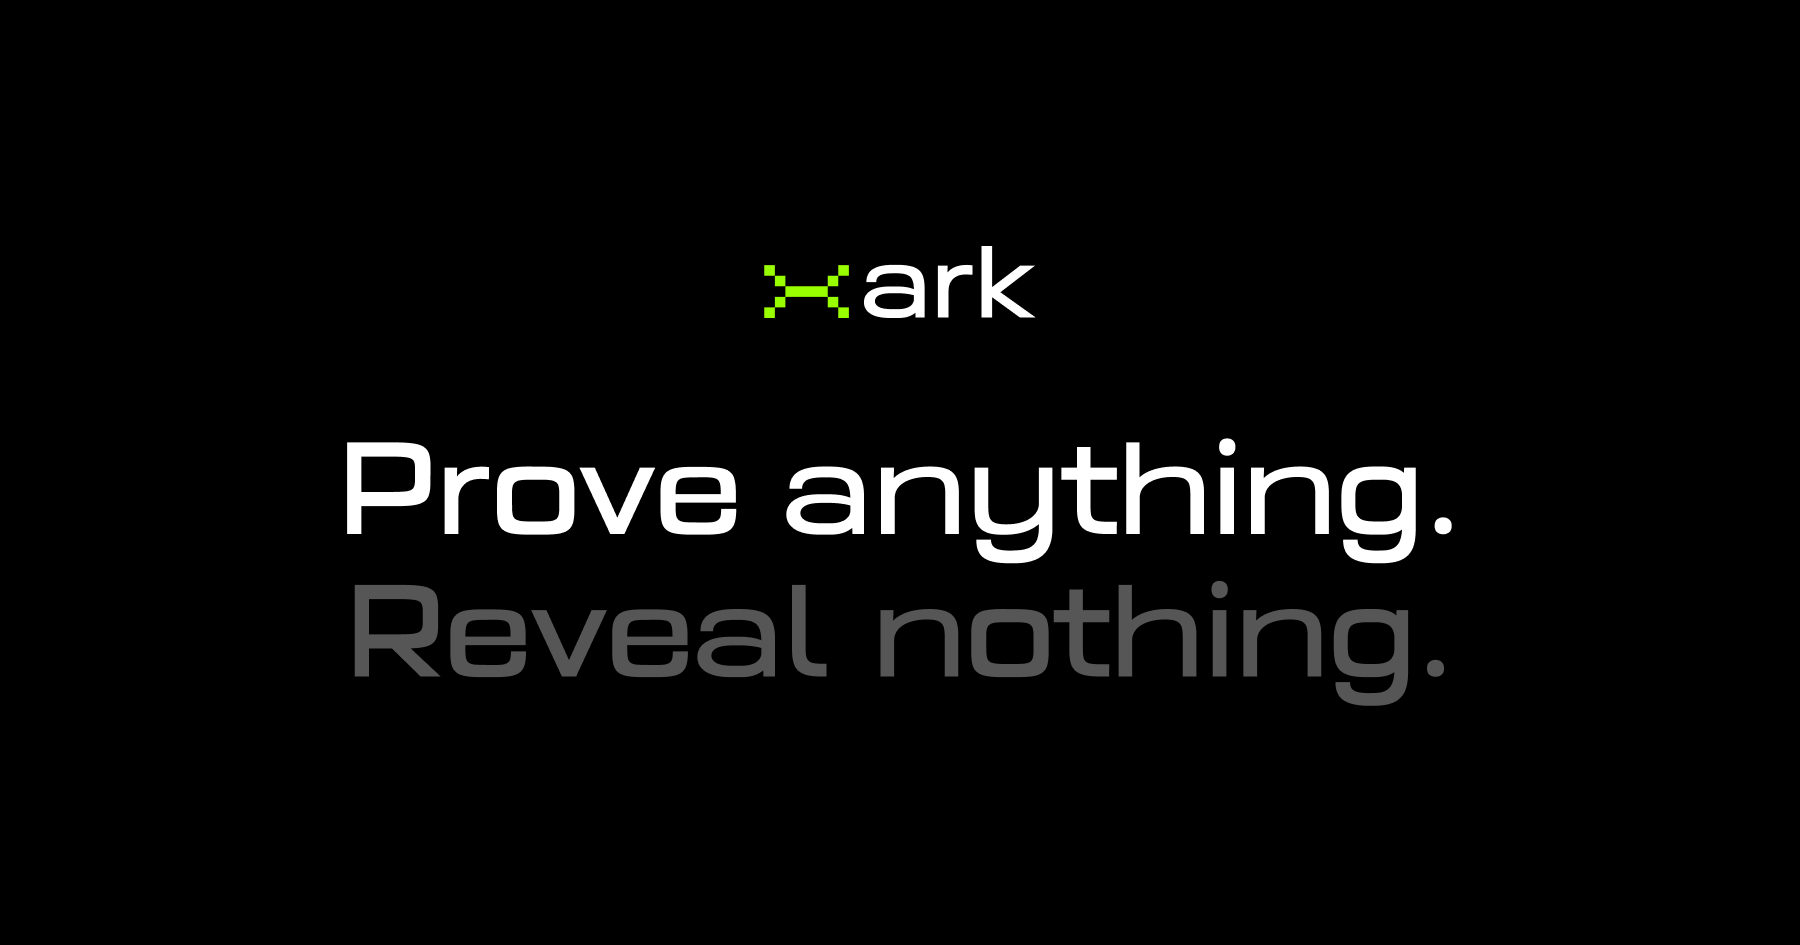
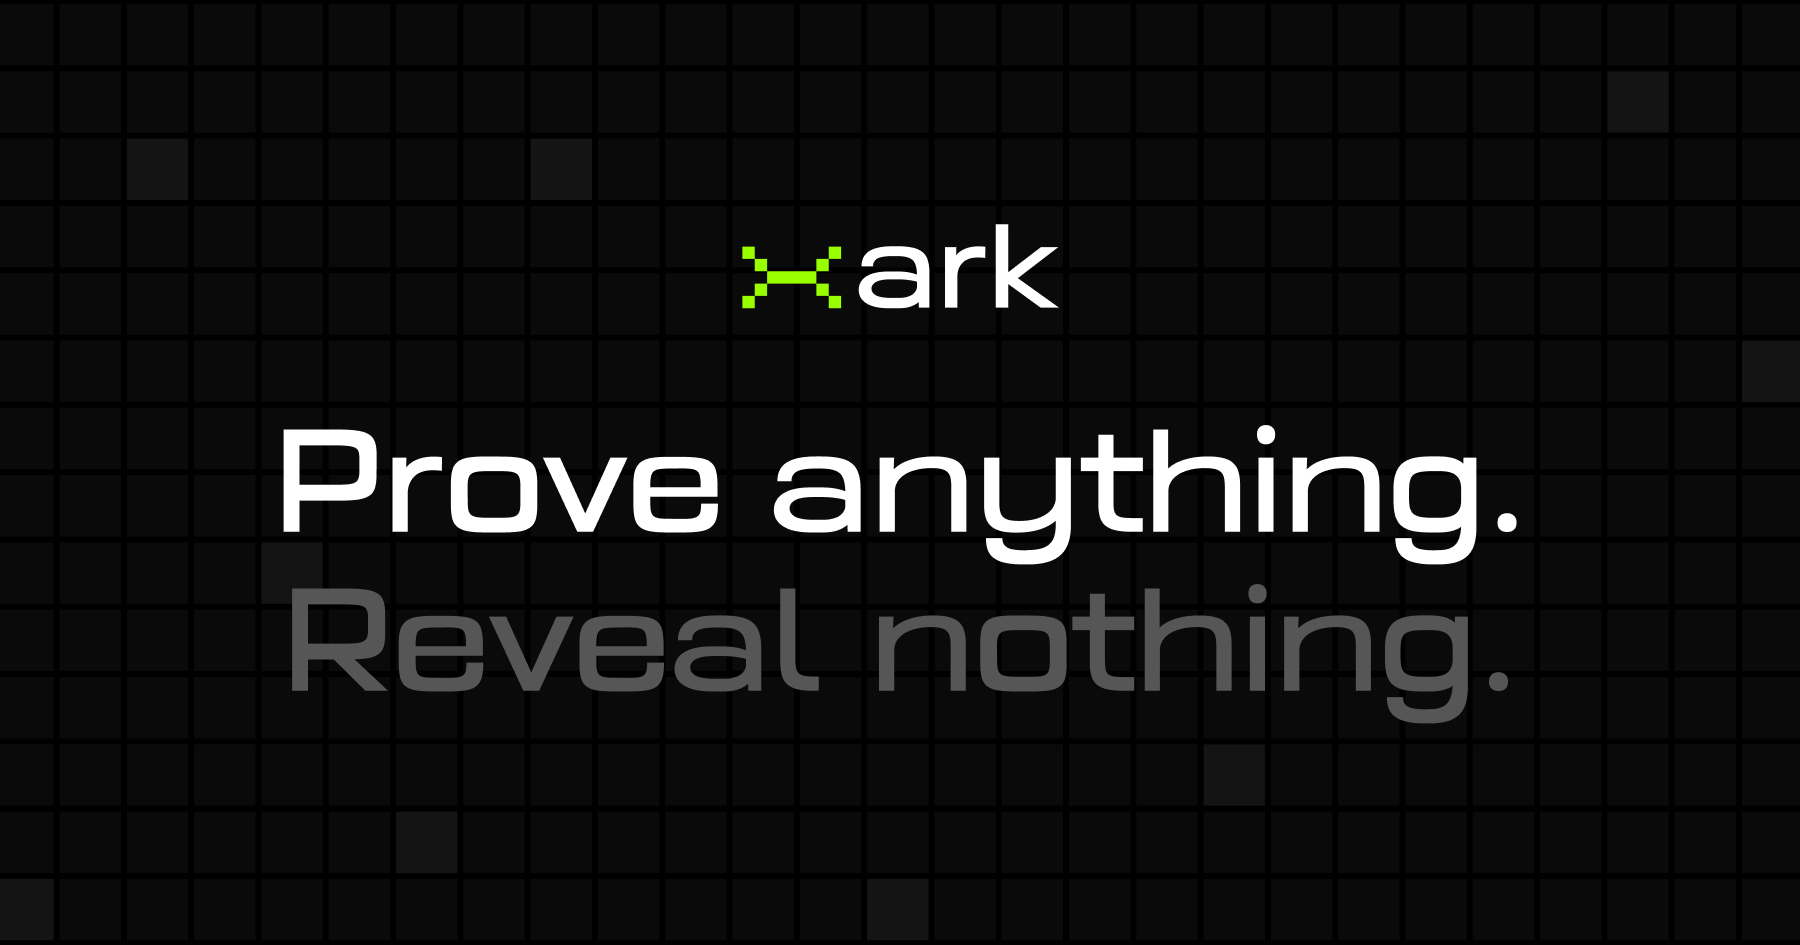
fix: site metadata + opengraph image

Changed region(s): [[0.1556, 0.4296, 0.84, 0.6138], [0.1556, 0.6138, 0.84, 0.7672], [0.4044, 0.2455, 0.5911, 0.3376]]

diff --git a/site.config.ts b/site.config.ts
@@ -1,30 +1,29 @@
 import type { Metadata } from "next";
 
+const siteTitle = "xark — prove anything, reveal nothing";
+const siteDescription =
+  "Full stack zero knowledge programming for Rust, verified on Solana.";
+
 export const siteMetadata: Metadata = {
-  metadataBase: new URL("https://xark.blueshift.gg"),
-  title: {
-    template: "%s | xark",
-    default: "xark — prove anything, reveal nothing",
-  },
-  description:
-    "Full stack zero knowledge programming for Rust. Prove anything, reveal nothing — verified on Solana through the native alt_bn128 syscalls.",
+  metadataBase: new URL("https://xark.gg"),
+  title: { template: "%s | xark", default: siteTitle },
+  description: siteDescription,
+  alternates: { canonical: "./" },
   icons: {
     icon: [{ url: "/favicon.svg", type: "image/svg+xml" }],
     shortcut: "/favicon.svg",
   },
   openGraph: {
     type: "website",
-    url: "https://xark.blueshift.gg",
-    title: "xark — prove anything, reveal nothing",
-    description:
-      "A Groth16 proving backend for circuits written in Rust, verified on Solana.",
-      images: [
-        {
-          url: "/meta-image.png",
-          width: 1200,
-          height: 630,
-          alt: "xark — prove anything, reveal nothing",
-        },
-      ],
+    siteName: "xark",
+    url: "./",
+    images: [
+      {
+        url: "/meta-image.png",
+        width: 1800,
+        height: 945,
+        alt: siteTitle,
+      },
+    ],
   },
 };
